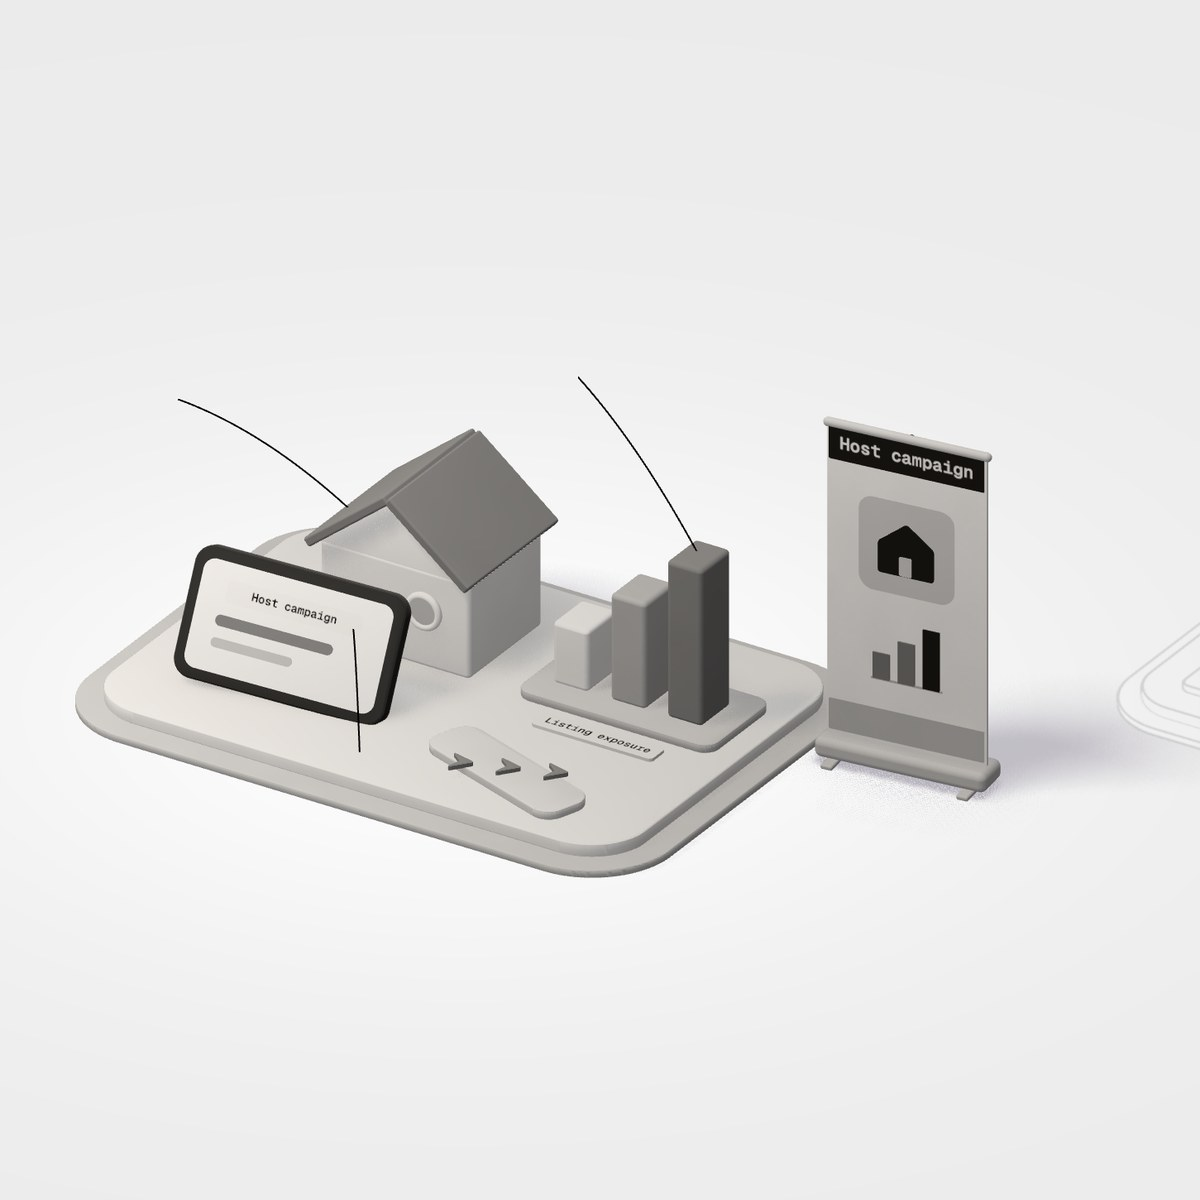
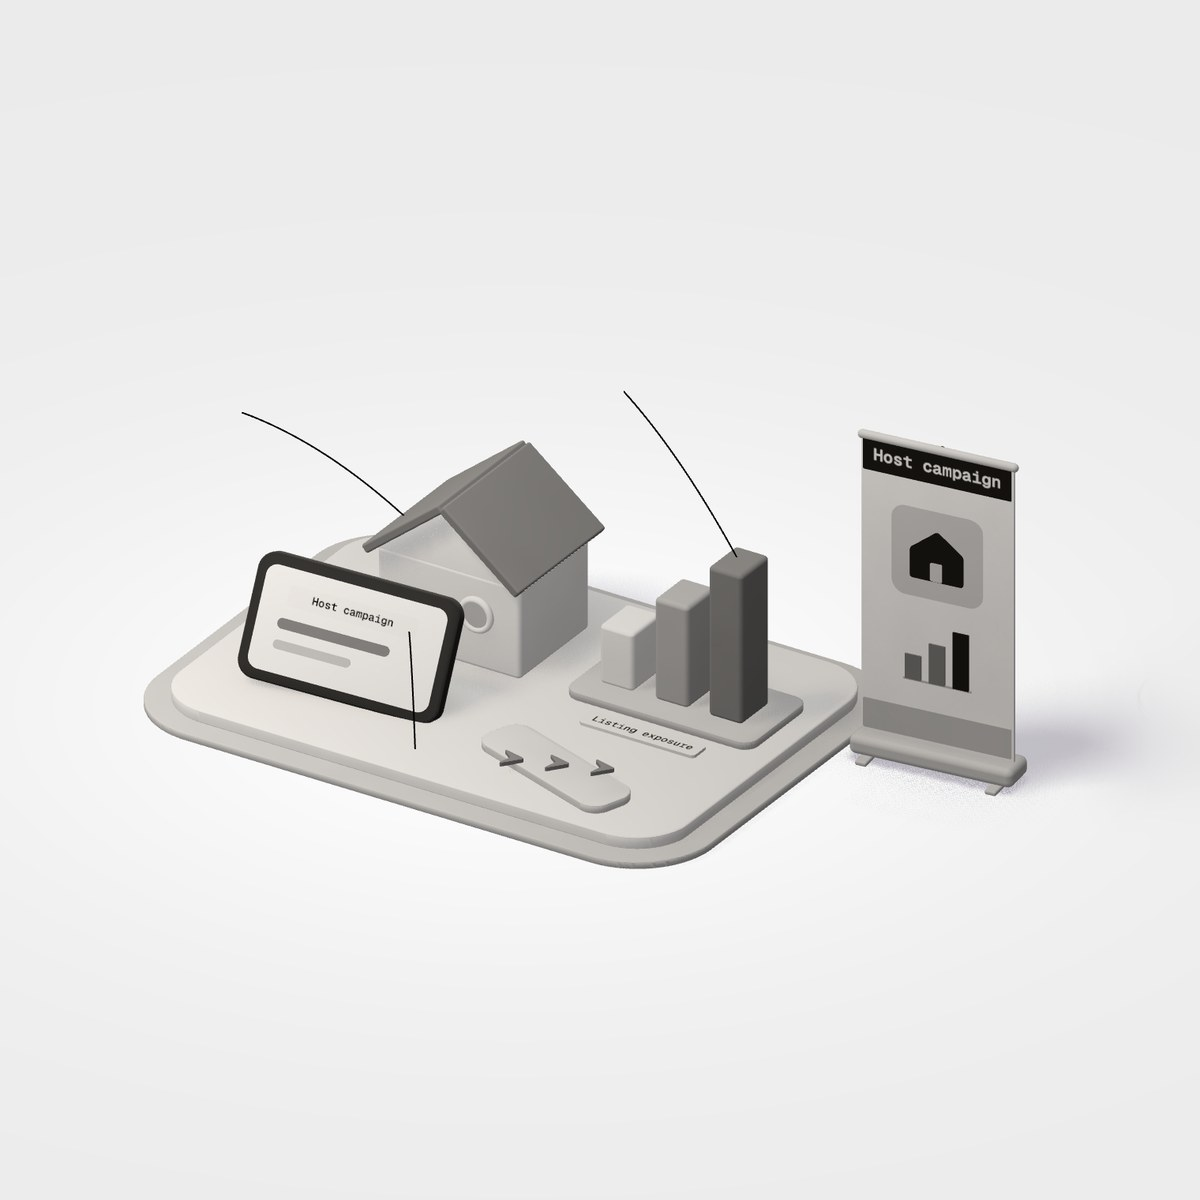
Home on phones: every figure still centered on its model
The stills were cropped around everything with an edge, numerals and the
neighbours' faint drawings included, which pulled some models off
center. Crop around the point where the stage centers every figure
instead, a little lower for the FIG. label, keep the numerals inside, and
soften the neighbours at the edges.

Changed region(s): [[0.0617, 0.3392, 0.8633, 0.74], [0.2467, 0.37, 0.2775, 0.4008], [0.185, 0.3392, 0.2158, 0.37]]

diff --git a/app/lib/stage-stills.ts b/app/lib/stage-stills.ts
@@ -1,6 +1,6 @@
 // Stills of the blueprint stage's figures for phones and tablets, where the
 // 3D stage is not loaded. Rendered from the stage itself (21 Nov 2026) and
-// cropped square: public/portfolio/stage/<id>.jpg. `labels` are the figure's
+// cropped square around the point where the stage centres every figure: public/portfolio/stage/<id>.jpg. `labels` are the figure's
 // reference numerals where its leader lines end, as fractions of the still.
 // Descriptions are the figures' own (app/components/blueprint/figures.ts);
 // re-render the stills when a figure changes.
@@ -19,77 +19,77 @@ export const STILLS: Still[] = [
     id: "tv",
     fig: "FIG. 1",
     desc: "A more immersive TV feed, with layered backgrounds and clearer remote focus.",
-    paper: "#E7E3FA",
-    labels: [["102", 0.7033, 0.38], ["104", 0.6723, 0.6431], ["106", 0.0858, 0.5884]],
+    paper: "#E8E3FA",
+    labels: [["102", 0.6931, 0.3786], ["104", 0.6609, 0.6523], ["106", 0.0506, 0.5954]],
   },
   {
     id: "lutra",
     fig: "FIG. 2",
     desc: "An operating dashboard for restaurants, from live orders to recommended coupons.",
-    paper: "#FBE6DF",
-    labels: [["202", 0.1403, 0.2242], ["204", 0.646, 0.4791], ["206", 0.5963, 0.7238]],
+    paper: "#FBE5DD",
+    labels: [["202", 0.2016, 0.2261], ["204", 0.6794, 0.467], ["206", 0.6324, 0.6982]],
   },
   {
     id: "restructure",
     fig: "FIG. 3",
     desc: "A video-first browser mode that makes every post discoverable and shareable.",
     paper: "#FBF0D1",
-    labels: [["302", 0.1788, 0.2276], ["304", 0.7353, 0.4968], ["306", 0.601, 0.7713]],
+    labels: [["302", 0.1627, 0.2068], ["304", 0.7437, 0.4879], ["306", 0.6034, 0.7745]],
   },
   {
     id: "multi",
     fig: "FIG. 4",
     desc: "An iPad experience that keeps videos, navigation and conversation in view.",
-    paper: "#FAE1EB",
-    labels: [["402", 0.207, 0.2566], ["404", 0.7515, 0.4964], ["406", 0.0864, 0.5132]],
+    paper: "#FAE2EB",
+    labels: [["402", 0.1836, 0.2532], ["404", 0.7569, 0.5057], ["406", 0.0566, 0.5234]],
   },
   {
     id: "ds",
     fig: "FIG. 5",
     desc: "Reusable component variants, with adaptive layouts and shared motion rules.",
     paper: "#E3ECF9",
-    labels: [["502", 0.0863, 0.4228], ["504", 0.7945, 0.3358], ["506", 0.5765, 0.2635]],
+    labels: [["502", 0.0488, 0.4057], ["504", 0.7664, 0.3175], ["506", 0.5455, 0.2443]],
   },
   {
     id: "tikcode",
     fig: "FIG. 6",
     desc: "A new shareable code for TikTok profiles, sounds, hashtags and effects.",
     paper: "#DBF1EF",
-    labels: [["602", 0.2013, 0.2769], ["604", 0.6754, 0.5584], ["606", 0.0859, 0.5713]],
+    labels: [["602", 0.1696, 0.2822], ["604", 0.6625, 0.5749], ["606", 0.0495, 0.5884]],
   },
   {
     id: "wishlist",
     fig: "FIG. 7",
     desc: "Compare saved stays, share a shortlist and decide together where to book.",
-    paper: "#E0F0E6",
-    labels: [["702", 0.3778, 0.2554], ["704", 0.7373, 0.4852], ["706", 0.6064, 0.6984]],
+    paper: "#DFF0E7",
+    labels: [["702", 0.3641, 0.21], ["704", 0.7435, 0.4525], ["706", 0.6053, 0.6775]],
   },
   {
     id: "effects",
     fig: "FIG. 8",
     desc: "An AR effect creation tool for TikTok creators.",
     paper: "#EDEDED",
-    labels: [["802", 0.4256, 0.2276], ["804", 0.6061, 0.7408], ["806", 0.6104, 0.4816]],
+    labels: [["802", 0.4395, 0.208], ["804", 0.6213, 0.7246], ["806", 0.6256, 0.4637]],
   },
   {
     id: "hostpromo",
     fig: "FIG. 9",
     desc: "Campaign tools to attract and allocate traffic to listings from hosts in China.",
-    paper: "#EDEDED",
-    labels: [["902", 0.4641, 0.2886], ["904", 0.1207, 0.3168], ["906", 0.302, 0.646]],
+    paper: "#ECECEC",
+    labels: [["902", 0.5032, 0.302], ["904", 0.1756, 0.3288], ["906", 0.3486, 0.6429]],
   },
   {
     id: "dls",
     fig: "FIG. 10",
     desc: "A localized component library for the China design team.",
     paper: "#EDEDED",
-    labels: [["1002", 0.7147, 0.3847], ["1004", 0.4639, 0.7194], ["1006", 0.0961, 0.2941]],
+    labels: [["1002", 0.7438, 0.4322], ["1004", 0.507, 0.7483], ["1006", 0.1597, 0.3467]],
   },
   {
     id: "supply",
     fig: "FIG. 11",
     desc: "A workspace for the China supply team to track listings and their performance.",
     paper: "#EDEDED",
-    labels: [["1102", 0.7162, 0.4534], ["1104", 0.5913, 0.7546], ["1106", 0.3983, 0.2119]],
+    labels: [["1102", 0.7363, 0.4421], ["1104", 0.6133, 0.7387], ["1106", 0.4233, 0.2042]],
   },
 ];
